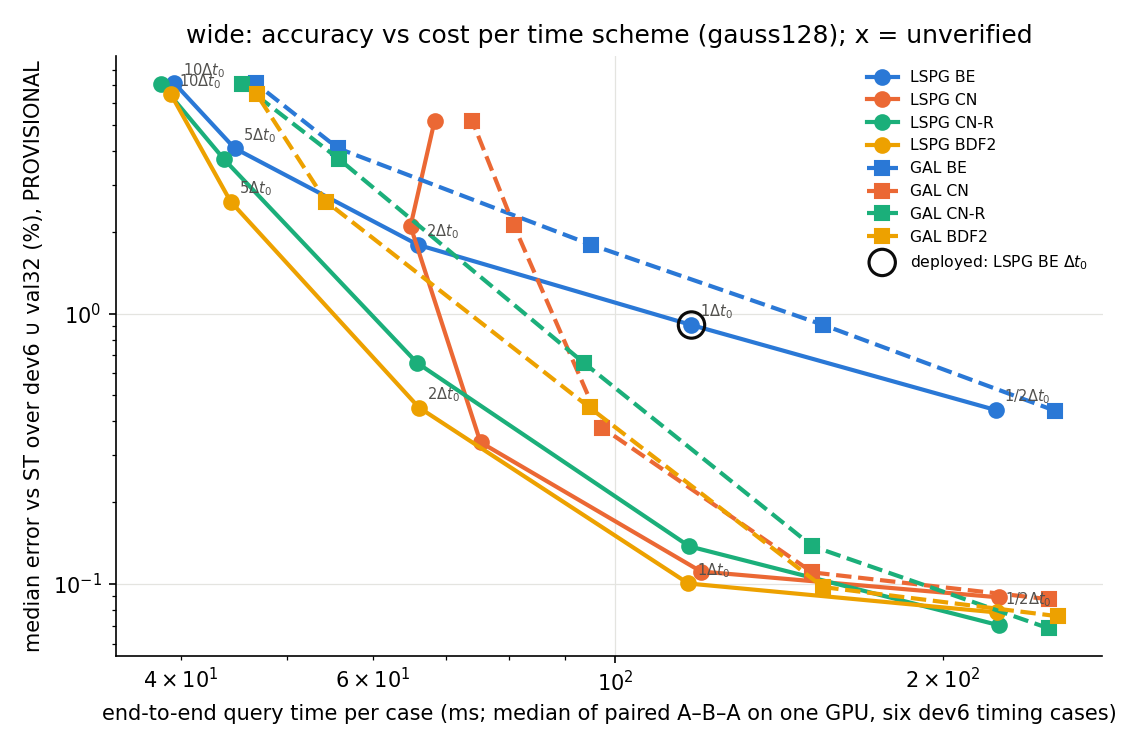
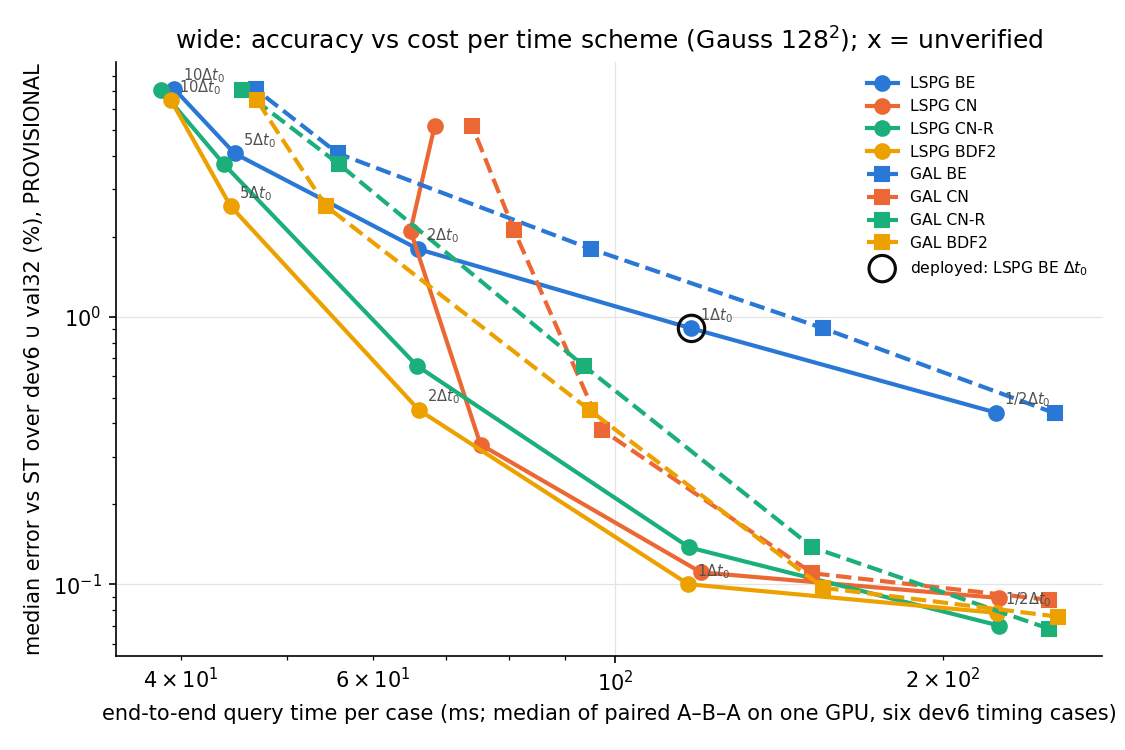
mirror of b00185e73: jcp-time2: rule name for wide

diff --git a/experiments/jcp-time2/make_report.py b/experiments/jcp-time2/make_report.py
@@ -25,7 +25,7 @@ NAMES = dict(BE='BE', CN='CN', CNR='CN-R', BDF2='BDF2', TH06='TH06')
 COLORS = dict(BE='#2a78d6', CN='#eb6834', CNR='#1baf7a', BDF2='#eda100', TH06='#e87ba4')
 FORMS = ['LSPG', 'GAL']
 STYLE = dict(LSPG=dict(ls='-', marker='o'), GAL=dict(ls='--', marker='s'))
-RULE_NAME = dict(gauss96='Gauss $96^2$', fib1597='Fibonacci 1597', gauss192='Gauss $192^2$', fib6765='Fibonacci 6765',
+RULE_NAME = dict(gauss96='Gauss $96^2$', gauss128='Gauss $128^2$', fib1597='Fibonacci 1597', gauss192='Gauss $192^2$', fib6765='Fibonacci 6765',
                  lat64='mesh lattice $63^2$')
 
 

diff --git a/experiments/jcp-time2/report.md b/experiments/jcp-time2/report.md
@@ -14,7 +14,7 @@ Crank–Nicolson, Crank–Nicolson with a damped start, and BDF2 replace backwar
 
 - **2D `fast`** (Fibonacci 1597, $R'=128$): deployed BE at $\Delta t_0$ ST worst/median 4.637/1.035 %; LSPG CN at $\Delta t_0$ 5.171/0.419 % (paired time ratio 0.9933); LSPG CN at $2\Delta t_0$ 4.950/0.446 % (ratio 0.6142). Median anchor discrepancy (time-error estimate) 0.994 % → 0.036 % at $\Delta t_0$. H1 failed, H2 failed; orders: LSPG CN not established, LSPG CNR not established, LSPG BDF2 not established, GAL CN order 2, GAL BDF2 order 2.
 - **2D `acc`** (Gauss $96^2$, $R'=384$): deployed BE at $\Delta t_0$ ST worst/median 2.747/0.906 %; LSPG CN at $\Delta t_0$ 1.796/0.098 % (paired time ratio 1.0001); LSPG CN at $2\Delta t_0$ 1.803/0.259 % (ratio 0.5701). Median anchor discrepancy (time-error estimate) 0.978 % → 0.026 % at $\Delta t_0$. H1 passed, H2 passed; orders: LSPG CN not established, LSPG CNR order 2, LSPG BDF2 order 2, GAL CN order 2, GAL BDF2 order 2.
-- **2D `wide`** (gauss128, $R'=512$): deployed BE at $\Delta t_0$ ST worst/median 2.837/0.907 %; LSPG CN at $\Delta t_0$ 2.166/0.111 % (paired time ratio 1.0146); LSPG CN at $2\Delta t_0$ 3.481/0.334 % (ratio 0.6342). Median anchor discrepancy (time-error estimate) 0.978 % → 0.039 % at $\Delta t_0$. H1 passed, H2 passed; orders: LSPG CN not established, LSPG CNR order 2, LSPG BDF2 not established, GAL CN order 2, GAL BDF2 order 2.
+- **2D `wide`** (Gauss $128^2$, $R'=512$): deployed BE at $\Delta t_0$ ST worst/median 2.837/0.907 %; LSPG CN at $\Delta t_0$ 2.166/0.111 % (paired time ratio 1.0146); LSPG CN at $2\Delta t_0$ 3.481/0.334 % (ratio 0.6342). Median anchor discrepancy (time-error estimate) 0.978 % → 0.039 % at $\Delta t_0$. H1 passed, H2 passed; orders: LSPG CN not established, LSPG CNR order 2, LSPG BDF2 not established, GAL CN order 2, GAL BDF2 order 2.
 - **Fair full-order comparison** (`fom1k`): `rom|acc|gauss96|LSPG|BE|1` vs the cheapest full-order configuration of equal or better cohort-worst ST error (`fom|CNR|2`): 1.76× (same job, same GPU; listed configurations only).
 - **Fair full-order comparison** (`fom1k`): `rom|acc|gauss96|LSPG|CN|2` vs the cheapest full-order configuration of equal or better cohort-worst ST error (`fom|CN|1`): 3.65× (same job, same GPU; listed configurations only).
 - **3D `gl24_R512`**: median anchor discrepancy of LSPG CN at $\Delta t_0$ 0.089 % (resolved cases), paired time ratio to the deployed fixed-sweep BE 1.673; orders: LSPG CN not established, LSPG BDF2 order 2, GAL CN order 2, GAL BDF2 order 2. Reference errors in 3D are reference-limited (A13).
@@ -372,7 +372,7 @@ Old method (deployed mesh lattice $63^2$, LSPG), worst / median ST error (%, PRO
 
 ![error_vs_cost_acc.png](plots/error_vs_cost_acc.png)
 
-## Setting `wide` (gauss128, $R'=512$, $M=2048$, $L=1024$, 38 cases)
+## Setting `wide` (Gauss $128^2$, $R'=512$, $M=2048$, $L=1024$, 38 cases)
 
 **Secondary setting (DESIGN A7).** Its rule (Gauss $128^2$) was not selected by any study at $R'=512$; the quadrature-sensitivity column (Gauss $192^2$) is an indicator, not a certificate, and exists only for the production arms with $\Delta t\ge\Delta t_0/2$.
 
